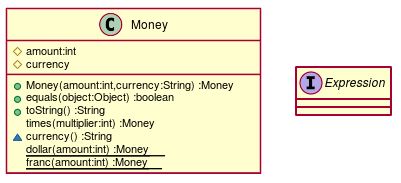
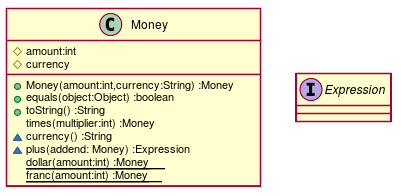
第１２章 設計とメタファー Step10

Changed region(s): [[0.0, 0.0273, 0.6584, 0.9563], [0.7182, 0.3552, 0.9875, 0.6557]]

diff --git a/src/main/java/tdd/money/Money.java b/src/main/java/tdd/money/Money.java
@@ -28,7 +28,7 @@ class Money {
         return new Money(amount, "CHF");
     }
 
-    public Money plus(Money addend) {
+    Expression plus(Money addend) {
         return new Money(amount + addend.amount, currency);
     }
 }

diff --git a/docs/TDD.md b/docs/TDD.md
@@ -44,7 +44,7 @@
 ### クラス図
   
 
-![](./assets/0285dfa24ee25b18e00bb369b57da6820.png?0.05453871592794313)  
+![](./assets/0285dfa24ee25b18e00bb369b57da6820.png?0.40717550063274954)  
 ### シーケンス図
   
   
@@ -119,7 +119,7 @@ class Money {
         return new Money(amount, "CHF");
     }
   
-    public Money plus(Money addend) {
+    Expression plus(Money addend) {
         return new Money(amount + addend.amount, currency);
     }
 }

diff --git a/docs/src/TDD.md b/docs/src/TDD.md
@@ -53,6 +53,7 @@ class Money {
   +toString() :String
   times(multiplier:int) :Money
   ~currency() :String
+  ~plus(addend: Money) :Expression
   {static} dollar(amount:int) :Money
   {static} franc(amount:int) :Money  
 }
